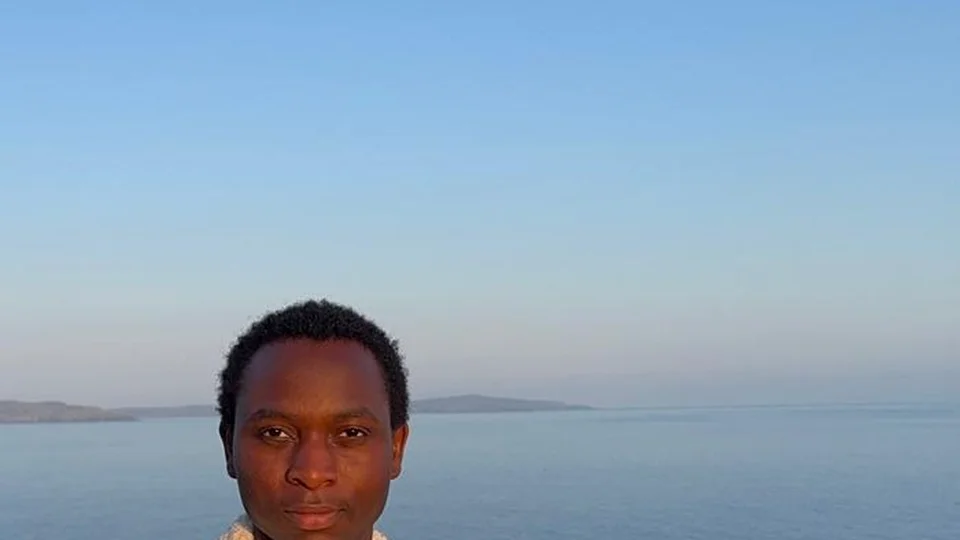
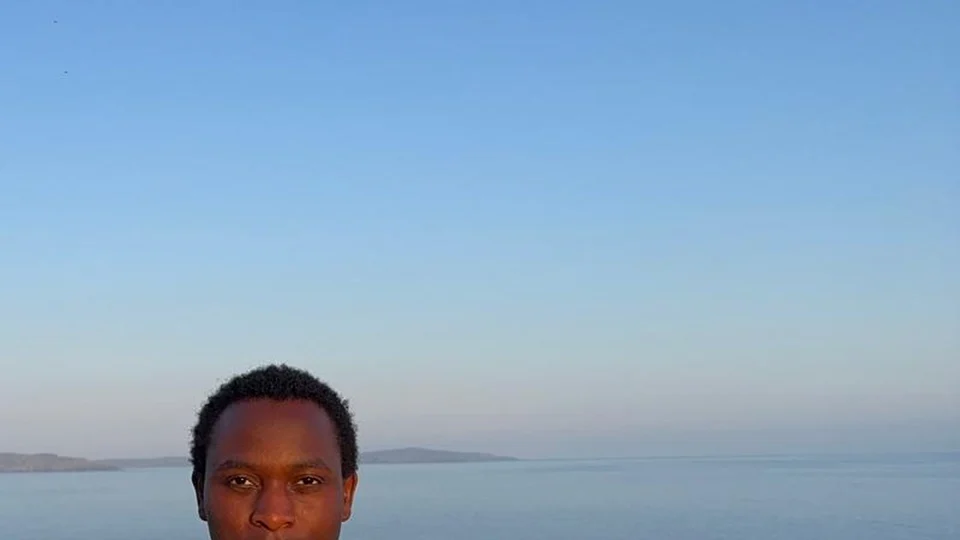
Tighten hero framing: more sky for nav, no grass, full viewport
Pull subject left and down with a closer crop so nav sits on open sky, grass is out of frame, and the desktop hero locks to 100dvh.

Changed region(s): [[0.0, 0.5333, 1.0, 1.0]]

diff --git a/src/components/pages/IndexPage.tsx b/src/components/pages/IndexPage.tsx
@@ -105,13 +105,13 @@ function HeroCopy({ className = "" }: { className?: string }) {
 
 function Hero() {
   return (
-    <section className="relative isolate w-full overflow-hidden bg-[#0a1628] md:min-h-[100dvh]">
+    <section className="relative isolate w-full overflow-hidden bg-[#0a1628] md:h-[100dvh]">
       {/* One photograph — stacked crop on mobile, full-bleed cover on desktop */}
-      <div className="relative h-[48vh] w-full overflow-hidden md:absolute md:inset-0 md:h-full">
+      <div className="relative h-[52vh] w-full overflow-hidden md:absolute md:inset-0 md:h-full">
         <HeroPhoto
           priority
           sizes="100vw"
-          className="absolute inset-0 h-full w-full object-cover object-[center_18%] md:object-[left_28%]"
+          className="absolute inset-0 h-full w-full object-cover object-[center_12%] md:object-[left_18%]"
         />
       </div>
 
@@ -125,7 +125,7 @@ function Hero() {
         aria-hidden
       />
 
-      <div className="relative z-10 md:flex md:min-h-[100dvh] md:items-center">
+      <div className="relative z-10 md:flex md:h-full md:items-center">
         <div className="bg-[#0a1628] px-6 py-12 md:ml-[52%] md:w-full md:max-w-[520px] md:bg-transparent md:px-6 md:py-0 md:pr-10 lg:pr-16">
           <HeroCopy />
         </div>
